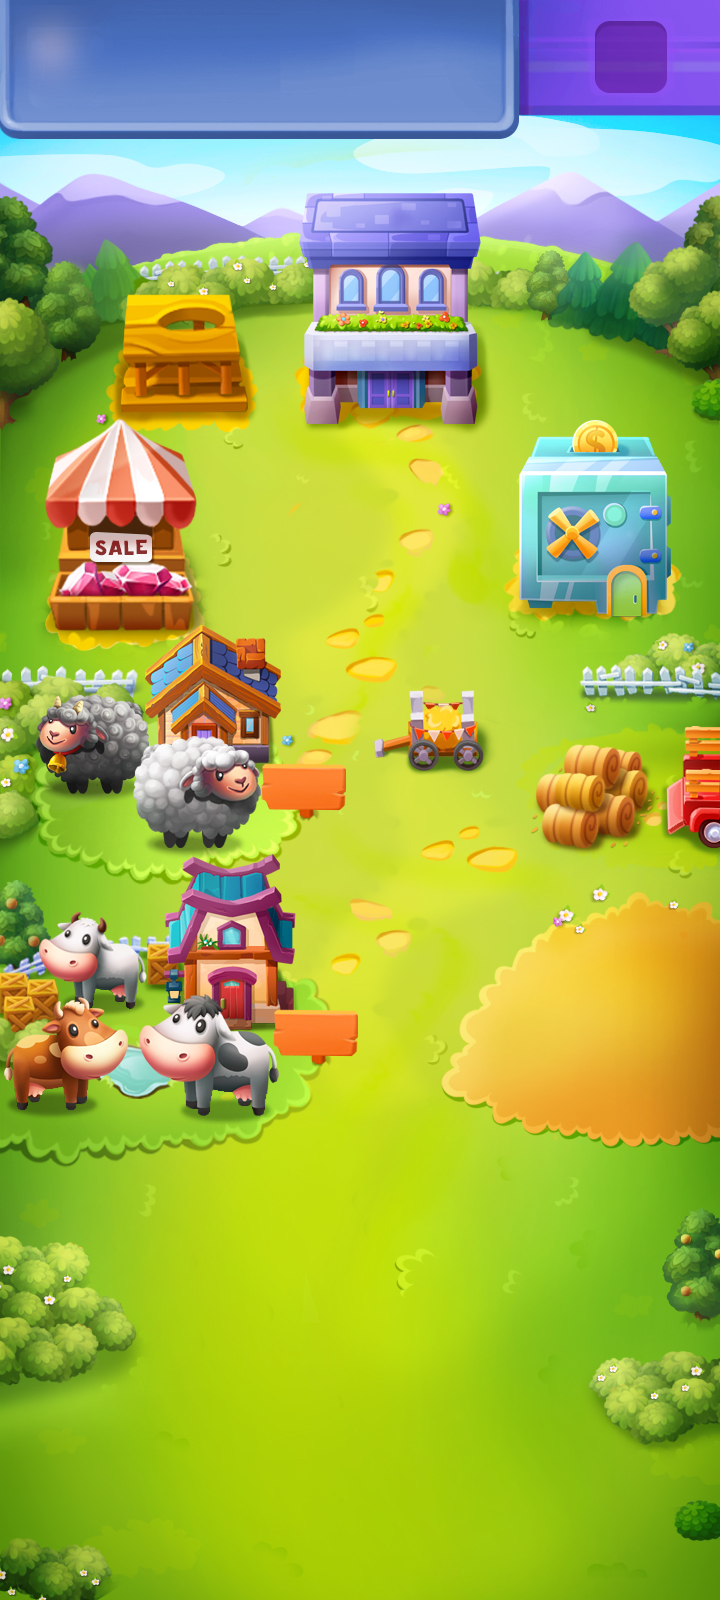
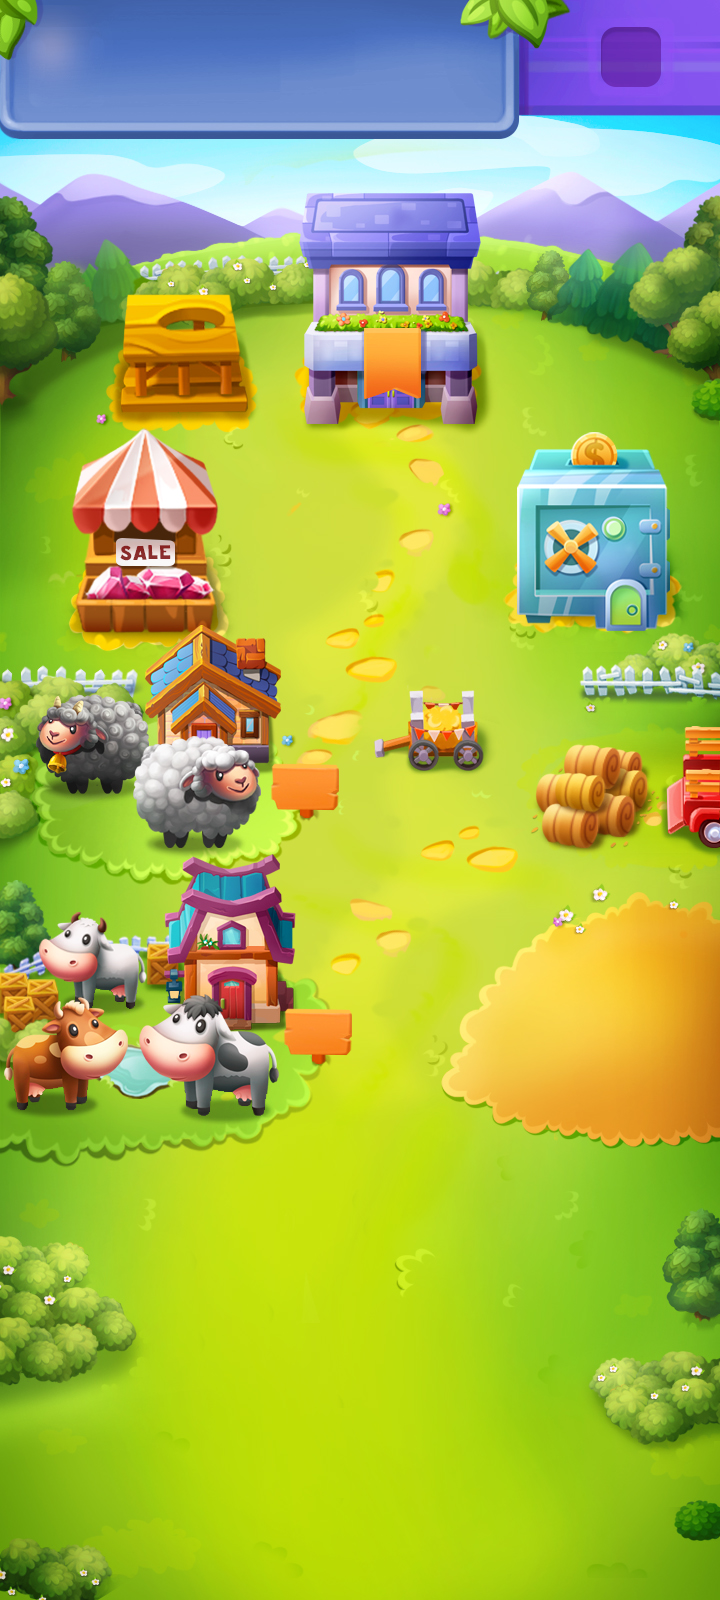
add cooldown bg

diff --git a/src/scripts/components/clan/ClanCooldownBuilding.ts b/src/scripts/components/clan/ClanCooldownBuilding.ts
@@ -1,60 +1,34 @@
-import { shortNum, shortTime } from '../../general/basic';
+import { shortTime } from '../../general/basic';
 import ClanFarm from './../../scenes/ClanFarm';
 import axios, { AxiosResponse } from 'axios';
 
-const TIMER_COEFFICIENT = 2;
 export default class ClanCooldownBuilding extends Phaser.GameObjects.Sprite {
   public scene: ClanFarm;
   private building: IclanBuilding;
   private timer: Phaser.GameObjects.Text;
-  private timerBg: Phaser.GameObjects.TileSprite;
-  private btnPrice: Phaser.GameObjects.Text;
-  private btnDiamond: Phaser.GameObjects.Sprite;
-  private btn: Phaser.GameObjects.Sprite;
-  private anim: Phaser.Tweens.Tween;
-  private price: number;
   constructor(scene: ClanFarm, position: Iposition, building: IclanBuilding, type: string) {
-    super(scene, position.x - 30, position.y, 'hammer');
+    super(scene, position.x, position.y, 'clan-cooldown-bg');
     this.building = building;
     this.type = type;
-    this.price = Math.round(this.building.cooldown / 60) * TIMER_COEFFICIENT;
     this.create();
-    this.setHatchAnimation();
-    this.setListeners();
   }
 
   private create(): void {
-    this.scene.add.existing(this);
-    this.setOrigin(0.2, 0.8);
-    this.setScale(1.1)
-    this.setDepth(5)
-
-    this.timer = this.scene.add.text(this.x + 30, this.y + 40, shortTime(this.building.cooldown, this.scene.state.lang), {
-      fontSize: '28px',
-      fontFamily: 'Bip',
-      color: '#823C0F'
-    }).setDepth(this.depth).setOrigin(0.5);
-    const textGeom: Phaser.Geom.Rectangle = this.timer.getBounds();
-
-    this.timerBg = this.scene.add.tileSprite(textGeom.centerX, textGeom.centerY, textGeom.width + 10, textGeom.height, 'white-pixel')
-      .setTint(0xF7DFC7)
-      .setDepth(this.depth - 1);
-
-    this.btn = this.scene.add.sprite(textGeom.centerX, textGeom.bottom + 30, 'improve-collector')
-      .setDepth(this.depth + 240)
-      .setScale(0.6, 0.7);
-
-    this.btnDiamond = this.scene.add.sprite(textGeom.centerX - 15, textGeom.bottom + 28, 'diamond')
-      .setDepth(this.depth + 240)
-      .setScale(0.10).setOrigin(0, 0.5);
-
-    this.btnPrice = this.scene.add.text(textGeom.centerX + 15, textGeom.bottom + 28, '1000', {
-      fontSize: '26px',
+    const textStyle: Phaser.Types.GameObjects.Text.TextStyle = {
+      fontSize: '24px',
       fontFamily: 'Shadow',
-      color: '#E4DADD'
-    }).setDepth(this.depth + 240).setOrigin(1, 0.5);
+      color: '#F0F1DC',
+      shadow: {
+        offsetX: 1,
+        offsetY: 2, 
+        color: 'rgba(0, 0, 0, 0.5)',
+        blur: 2,
+        fill: true,
+      },
+    };
 
-    this.setBtnTextPosition();
+    this.scene.add.existing(this);
+    this.timer = this.scene.add.text(this.x - 7, this.y - 12, shortTime(this.building.cooldown, this.scene.state.lang), textStyle).setOrigin(0.5);
   }
 
   public preUpdate(time: number, delta: number) {
@@ -63,20 +37,10 @@ export default class ClanCooldownBuilding extends Phaser.GameObjects.Sprite {
       if (this.active) {
         this.destroy();
       };
-    } else if (this.building.cooldown > 0) {
-      this.setPrice();
-      const text: string = shortNum(this.price);
-      if (this.btnPrice.text !== text) {
-        this.btnPrice.setText(text);
-        this.setBtnTextPosition();
-      }
+    } else {
       const time: string = shortTime(this.building.cooldown, this.scene.state.lang);
       if (this.timer.text !== time) {
         this.timer.setText(time);
-        const textGeom: Phaser.Geom.Rectangle = this.timer.getBounds();
-        if (textGeom.width + 10 !== this.timerBg.displayWidth) {
-          this.timerBg.setDisplaySize(textGeom.width + 10, textGeom.height);
-        }
       }
     }
   }
@@ -85,70 +49,40 @@ export default class ClanCooldownBuilding extends Phaser.GameObjects.Sprite {
     return this.building.cooldown <= 0;
   }
 
-  private setHatchAnimation(): void {
-    this.anim = this.scene.add.tween({
-      targets: this,
-      duration: 300,
-      delay: 150,
-      angle: 50,
-      repeat: -1,
-      yoyo: true,
-      repeatDelay: 250,
-    });
-  }
-
   public destroy(): void {
     super.destroy();
     this.timer?.destroy();
-    this.timerBg?.destroy();
-    this.btnPrice?.destroy();
-    this.btnDiamond?.destroy();
-    this.btn?.destroy();
-    this.anim?.remove();
   }
 
-  private setListeners(): void {
-    this.scene.clickModalBtn({ btn: this.btn, title: this.btnPrice, img1: this.btnDiamond }, (): void => {
-      if (this.scene.state.user.diamonds >= this.price) {
-        this.postServer().then(res => {
-          if (!res.data.error) {
-            if (this.scene.state.user.diamonds >= this.price) {
-              this.scene.state.user.diamonds -= this.price;
-            } else this.scene.state.user.diamonds = 0;
-            this.building.cooldown = 0;
-          }
-        });
-      } else {
-        this.scene.state.convertor = {
-          fun: 0,
-          count: this.price - this.scene.state.user.diamonds,
-          diamonds: this.price - this.scene.state.user.diamonds,
-          type: 2
-        };
-        this.scene.state.modal = {
-          type: 1,
-          sysType: 4,
-        };
-        this.scene.scene.launch('Modal',this.scene.state);
-        this.scene.game.scene.keys[this.scene.state.farm].scrolling.wheel = true;
-      }
-    });
-  }
+  // private setListeners(): void {
+  //   const price = 0;
+  //   this.scene.clickModalBtn({ btn: this.btn, title: this.btnPrice, img1: this.btnDiamond }, (): void => {
+  //     if (this.scene.state.user.diamonds >= price) {
+  //       this.postServer().then(res => {
+  //         if (!res.data.error) {
+  //           if (this.scene.state.user.diamonds >= price) {
+  //             this.scene.state.user.diamonds -= price;
+  //           } else this.scene.state.user.diamonds = 0;
+  //           this.building.cooldown = 0;
+  //         }
+  //       });
+  //     } else {
+  //       this.scene.state.convertor = {
+  //         fun: 0,
+  //         count: price - this.scene.state.user.diamonds,
+  //         diamonds: price - this.scene.state.user.diamonds,
+  //         type: 2
+  //       };
+  //       this.scene.state.modal = {
+  //         type: 1,
+  //         sysType: 4,
+  //       };
+  //       this.scene.scene.launch('Modal',this.scene.state);
+  //       this.scene.game.scene.keys[this.scene.state.farm].scrolling.wheel = true;
+  //     }
+  //   });
+  // }
 
-  private setPrice(): void {
-    this.price = Math.round(this.building.cooldown / 60) * TIMER_COEFFICIENT;
-    if (this.price <= 0) this.price = 1;
-    else if (this.price >= 1000) this.price = 1000;
-  }
-
-  private setBtnTextPosition(): void {
-    const centerX: number = this.btn.x;
-    const textWindth: number = this.btnPrice.getBounds().width;
-    const imgWidth: number = this.btnDiamond.getBounds().width;
-    const halfWidth: number = (textWindth + imgWidth + 5) / 2;
-    this.btnPrice.setX(centerX + halfWidth); 
-    this.btnDiamond.setX(centerX - halfWidth); 
-  }
 
   private postServer(): Promise<AxiosResponse<any>> {
     const data = {
@@ -158,15 +92,5 @@ export default class ClanCooldownBuilding extends Phaser.GameObjects.Sprite {
       type: this.type,
     };
     return axios.post(process.env.API + '/buyCooldownClanBuilding', data);
-  }
-
-  public pulseAnim(): void {
-    this.scene.tweens.add({
-      targets: this,
-      duration: 150,
-      yoyo: true,
-      scale: 1.5,
-      repeat: 3,
-    })
   }
 } 

diff --git a/src/scripts/scenes/ClanFarm.ts b/src/scripts/scenes/ClanFarm.ts
@@ -5,6 +5,13 @@ import ClanCooldownBuilding from './../components/clan/ClanCooldownBuilding';
 const clanMap: string = require('../../assets/images/clan/map.jpg');
 const clanChickenFarm: string = require('../../assets/images/clan/chicken-farm.png');
 const clanFlagpole: string = require('../../assets/images/clan/flagpole.png');
+const clanCooldownBg: string = require('../../assets/images/clan/cooldown-bg.png');
+
+const levelTextStyle: Phaser.Types.GameObjects.Text.TextStyle = {
+  fontFamily: 'Shadow',
+  fontSize: '30px',
+  color: '#FAEA9F'
+};
 export default class ClanFarm extends Phaser.Scene {
   public state: Istate;
   private bg: Phaser.GameObjects.Sprite;
@@ -14,6 +21,10 @@ export default class ClanFarm extends Phaser.Scene {
   private sheepCooldownSprite: ClanCooldownBuilding;
   private chickenCooldownSprite: ClanCooldownBuilding;
   private cowCooldownSprite: ClanCooldownBuilding;
+  private clanLevelText: Phaser.GameObjects.Text
+  private sheepLevelText: Phaser.GameObjects.Text;
+  private chickenLevelText: Phaser.GameObjects.Text;
+  private cowLevelText: Phaser.GameObjects.Text;
 
   constructor() {
     super('ClanFarm');
@@ -26,6 +37,7 @@ export default class ClanFarm extends Phaser.Scene {
     this.load.image('clan-map', clanMap);
     this.load.image('clan-chicken-farm', clanChickenFarm);
     this.load.image('clan-flagpole', clanFlagpole);
+    this.load.image('clan-cooldown-bg', clanCooldownBg);
   }
   
   public init(state: Istate): void {
@@ -87,9 +99,9 @@ export default class ClanFarm extends Phaser.Scene {
       y: 65,
     };
     this.icon = LogoManager.createIcon(this, pos.x, pos.y, this.state.clan.avatar).setScale(0.41);
-    this.nameText = this.add.text(pos.x + 250, pos.y - 35, this.state.clan.name, textStyle).setOrigin(0.5);
-    if (this.nameText.displayWidth > 350) {
-      const multiply: number = this.nameText.displayWidth / 350;
+    this.nameText = this.add.text(pos.x + 240, pos.y - 30, this.state.clan.name, textStyle).setOrigin(0.5);
+    if (this.nameText.displayWidth > 340) {
+      const multiply: number = this.nameText.displayWidth / 340;
       this.nameText.setFontSize(parseInt(textStyle.fontSize) / multiply);
     }
   }
@@ -100,7 +112,8 @@ export default class ClanFarm extends Phaser.Scene {
       y: 300,
     };
     const zone = this.add.zone(pos.x, pos.y, 200, 240).setDropZone(undefined, () => {});
-
+    const textLevel: string = this.state.clan.mainBuilding.cooldown > 0 ? String(this.state.clan.mainBuilding.level - 1) : String(this.state.clan.mainBuilding.level);
+    this.cowLevelText = this.add.text(pos.x, pos.y + 60, textLevel, levelTextStyle).setOrigin(0.5);
     // const graphics: Phaser.GameObjects.Graphics = this.add.graphics();
     // graphics.lineStyle(5, 0xFFFF00);
     // graphics.strokeRect(
@@ -146,7 +159,7 @@ export default class ClanFarm extends Phaser.Scene {
 
   private createShop(): void {
     const pos: Iposition = {
-      x: 120,
+      x: 145,
       y: 530,
     };
     const zone = this.add.zone(pos.x, pos.y, 155, 210).setDropZone(undefined, () => {});
@@ -200,7 +213,8 @@ export default class ClanFarm extends Phaser.Scene {
     const farmPosition: Iposition = { x: 150, y: 750 };
     const width: number = 300;
     const height: number = 240;
-    
+    const textLevel: string = this.state.clan.sheep.cooldown > 0 ? String(this.state.clan.sheep.level - 1) : String(this.state.clan.sheep.level);
+    this.sheepLevelText = this.add.text(farmPosition.x + 155, farmPosition.y + 38, textLevel, levelTextStyle).setOrigin(0.5);
     const zone: Phaser.GameObjects.Zone = this.add.zone(farmPosition.x, farmPosition.y, width, height).setDropZone(undefined, () => {});
     // const graphics: Phaser.GameObjects.Graphics = this.add.graphics();
     // graphics.lineStyle(5, 0xFaaf00);
@@ -218,8 +232,10 @@ export default class ClanFarm extends Phaser.Scene {
   }
 
   private createChicken(): void {
-    const farmPosition: Iposition = { x: 580, y: 1000 };
+    const farmPosition: Iposition = { x: 580, y: 990 };
     const sprite = this.add.sprite(farmPosition.x, farmPosition.y, 'clan-chicken-farm');
+    const textLevel: string = this.state.clan.chicken.cooldown > 0 ? String(this.state.clan.chicken.level - 1) : String(this.state.clan.chicken.level);
+    this.chickenLevelText = this.add.text(farmPosition.x - 106, farmPosition.y + 20, textLevel, levelTextStyle).setOrigin(0.5);
     this.click(sprite, () => {
       if (this.state.clan.chicken.cooldown <= 0) {
         this.state.modal = {
@@ -237,6 +253,8 @@ export default class ClanFarm extends Phaser.Scene {
     const width: number = 300;
     const height: number = 250;
     
+    const textLevel: string = this.state.clan.cow.cooldown > 0 ? String(this.state.clan.cow.level - 1) : String(this.state.clan.cow.level);
+    this.cowLevelText = this.add.text(farmPosition.x + 167, farmPosition.y + 32, textLevel, levelTextStyle).setOrigin(0.5);
     const zone: Phaser.GameObjects.Zone = this.add.zone(farmPosition.x, farmPosition.y, width, height).setDropZone(undefined, () => {});
     // const graphics: Phaser.GameObjects.Graphics = this.add.graphics();
     // graphics.lineStyle(5, 0xFaccdd);
@@ -259,9 +277,9 @@ export default class ClanFarm extends Phaser.Scene {
     const height: number = 250;
     
     const zone: Phaser.GameObjects.Zone = this.add.zone(farmPosition.x, farmPosition.y, width, height).setDropZone(undefined, () => {});
-    const graphics: Phaser.GameObjects.Graphics = this.add.graphics();
-    graphics.lineStyle(5, 0x7F76F3);
-    graphics.strokeRect(zone.x - zone.input.hitArea.width / 2, zone.y - zone.input.hitArea.height / 2, zone.input.hitArea.width, zone.input.hitArea.height);
+    // const graphics: Phaser.GameObjects.Graphics = this.add.graphics();
+    // graphics.lineStyle(5, 0x7F76F3);
+    // graphics.strokeRect(zone.x - zone.input.hitArea.width / 2, zone.y - zone.input.hitArea.height / 2, zone.input.hitArea.width, zone.input.hitArea.height);
     this.click(zone, () => {
       this.state.modal = {
         type: 1,
@@ -275,19 +293,19 @@ export default class ClanFarm extends Phaser.Scene {
 
   public update(): void {
     if (this.state.clan.mainBuilding.cooldown > 0 && !this.mainBuildingCooldownSprite?.active) {
-      const pos: Iposition = { x: 385, y: 300 };
+      const pos: Iposition = { x: 395, y: 450 };
       this.mainBuildingCooldownSprite = new ClanCooldownBuilding(this, pos, this.state.clan.mainBuilding, 'main');
     }
     if (this.state.clan.sheep.cooldown > 0 && !this.sheepCooldownSprite?.active) {
-      const pos: Iposition = { x: 140, y: 800 };
+      const pos: Iposition = { x: 100, y: 860 };
       this.sheepCooldownSprite = new ClanCooldownBuilding(this, pos, this.state.clan.sheep, 'sheep');
     }
     if (this.state.clan.chicken.cooldown > 0 && !this.chickenCooldownSprite?.active) {
-      const pos: Iposition = { x: 580, y: 1050 };
+      const pos: Iposition = { x: 620, y: 1130 };
       this.chickenCooldownSprite = new ClanCooldownBuilding(this, pos, this.state.clan.chicken, 'chicken');
     }
     if (this.state.clan.cow.cooldown > 0 && !this.cowCooldownSprite?.active) {
-      const pos: Iposition = { x: 150, y: 1050 };
+      const pos: Iposition = { x: 120, y: 1160 };
       this.cowCooldownSprite = new ClanCooldownBuilding(this, pos, this.state.clan.cow, 'cow');
     }
   }

diff --git a/src/scripts/scenes/Preload.ts b/src/scripts/scenes/Preload.ts
@@ -258,6 +258,7 @@ const clanBankDiamondPackage2: string = require('../../assets/images/modal/clan/
 const clanBankDiamondPackage3: string = require('../../assets/images/modal/clan/bank/diamond-3.png');
 const clanBankDiamondPackage4: string = require('../../assets/images/modal/clan/bank/diamond-4.png');
 const clanMap: string = require('../../assets/images/clan/map.jpg');
+const clanCooldownBg: string = require('../../assets/images/clan/cooldown-bg.png');
 const clanChickenFarm: string = require('../../assets/images/clan/chicken-farm.png');
 const clanFlagpole: string = require('../../assets/images/clan/flagpole.png');
 const iconClanSheep: string = require('../../assets/images/icons/clan-sheep.png');
@@ -567,6 +568,7 @@ class Preload extends Phaser.Scene {
     this.load.image('clan-bank-diamond-package-3', clanBankDiamondPackage3);
     this.load.image('clan-bank-diamond-package-4', clanBankDiamondPackage4);
     this.load.image('clan-map', clanMap);
+    this.load.image('clan-cooldown-bg', clanCooldownBg);
     this.load.image('clan-chicken-farm', clanChickenFarm);
     this.load.image('clan-flagpole', clanFlagpole);
     this.load.image('icon-clan-sheep', iconClanSheep);
